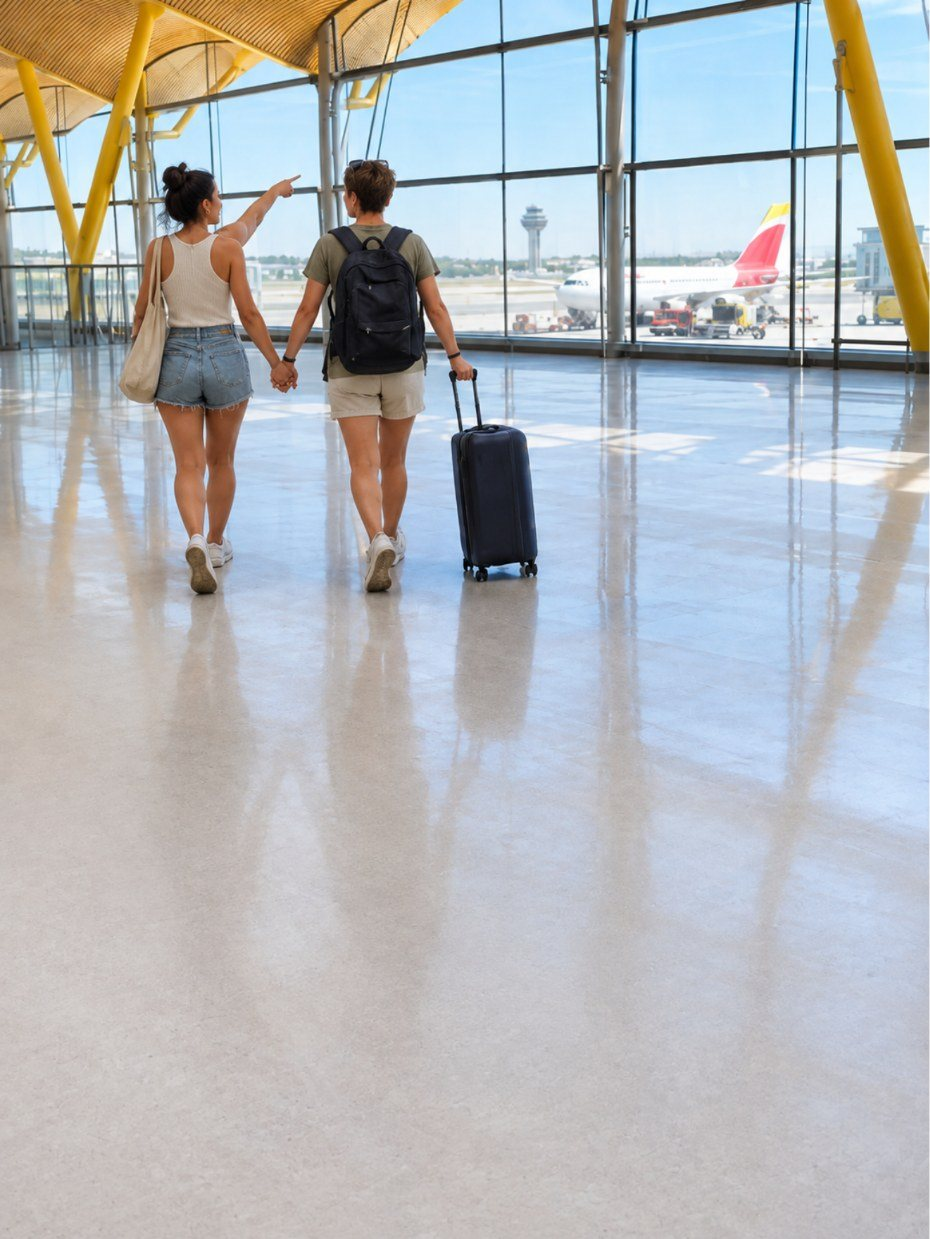
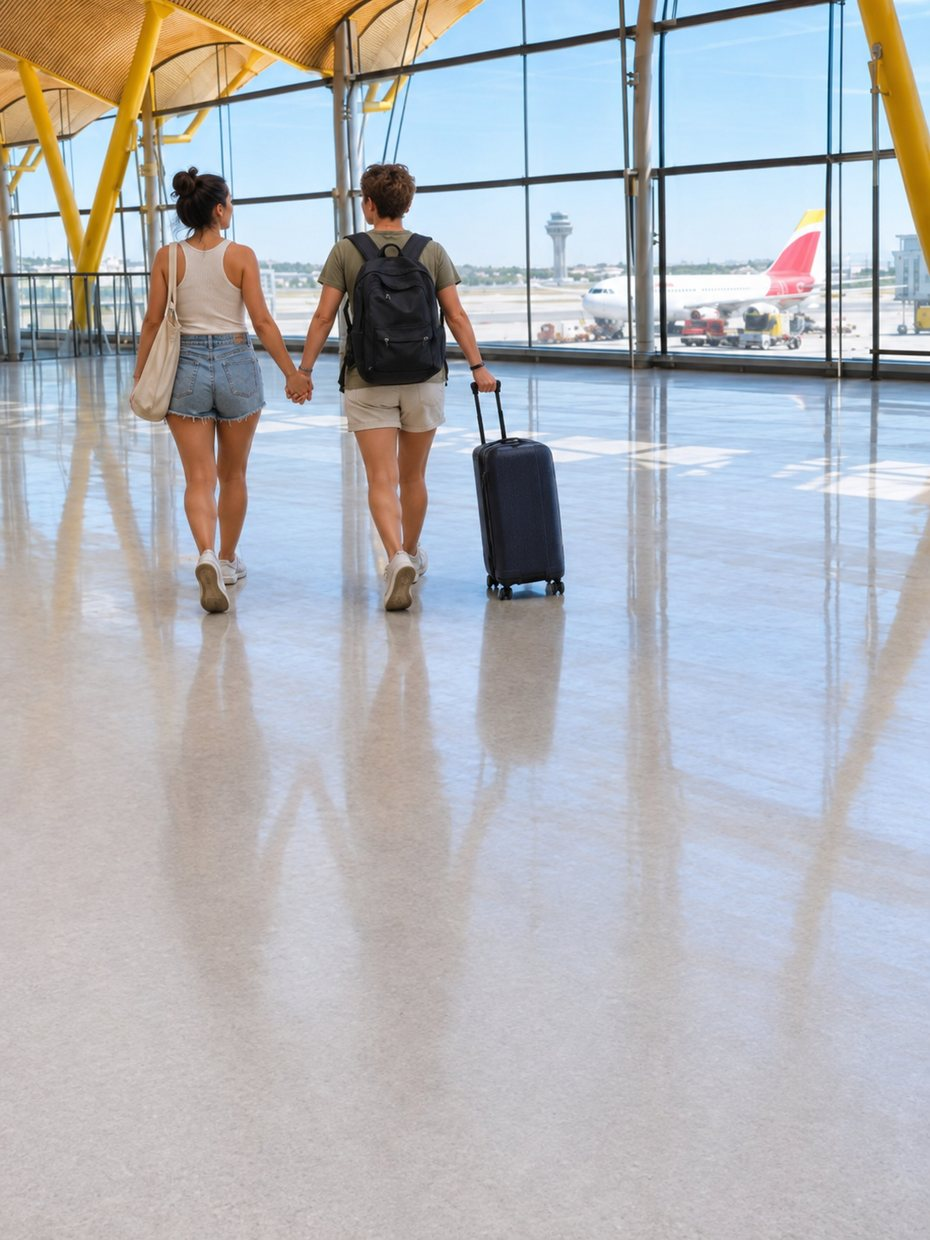
Главная: фото «Сопровождение» без лишней руки, современная ванная в «О вас никто не знает», 39€ белым
Claude-Session: https://claude.ai/code/session_016YkSpMVnVuz4WpokYAEfcN

diff --git a/index.html b/index.html
@@ -19,7 +19,7 @@
 <link rel="stylesheet" href="hero-sticker.css?v=8">
 <link rel="stylesheet" href="glavnaya-telefon.css?v=9">
 <link rel="stylesheet" href="bloki.css?v=5">
-<link rel="stylesheet" href="glavnaya-final.css?v=6">
+<link rel="stylesheet" href="glavnaya-final.css?v=7">
 <link rel="stylesheet" href="arki-parallax.css?v=1">
 <script type="importmap">{"imports":{"react":"./vendor/react/react.mjs","react/jsx-runtime":"./vendor/react/react.mjs","react-dom/client":"./vendor/react/react.mjs","glisse":"./vendor/glisse/index.js"}}</script>
 <script type="module" src="glass.js?v=12"></script>

diff --git a/glavnaya-final.css b/glavnaya-final.css
@@ -183,3 +183,8 @@
   .apply { padding-top: 32px; padding-bottom: 46px; pointer-events: none; }
   .apply__box { pointer-events: auto; }
 }
+
+
+/* ===== «Оцените шансы»: зачеркнутая цена 39€ белая, без прозрачности (Саша, 24.11) ===== */
+.who .price s { opacity: 1; color: #fff; }
+.who .price s::after { background: #fff; }
